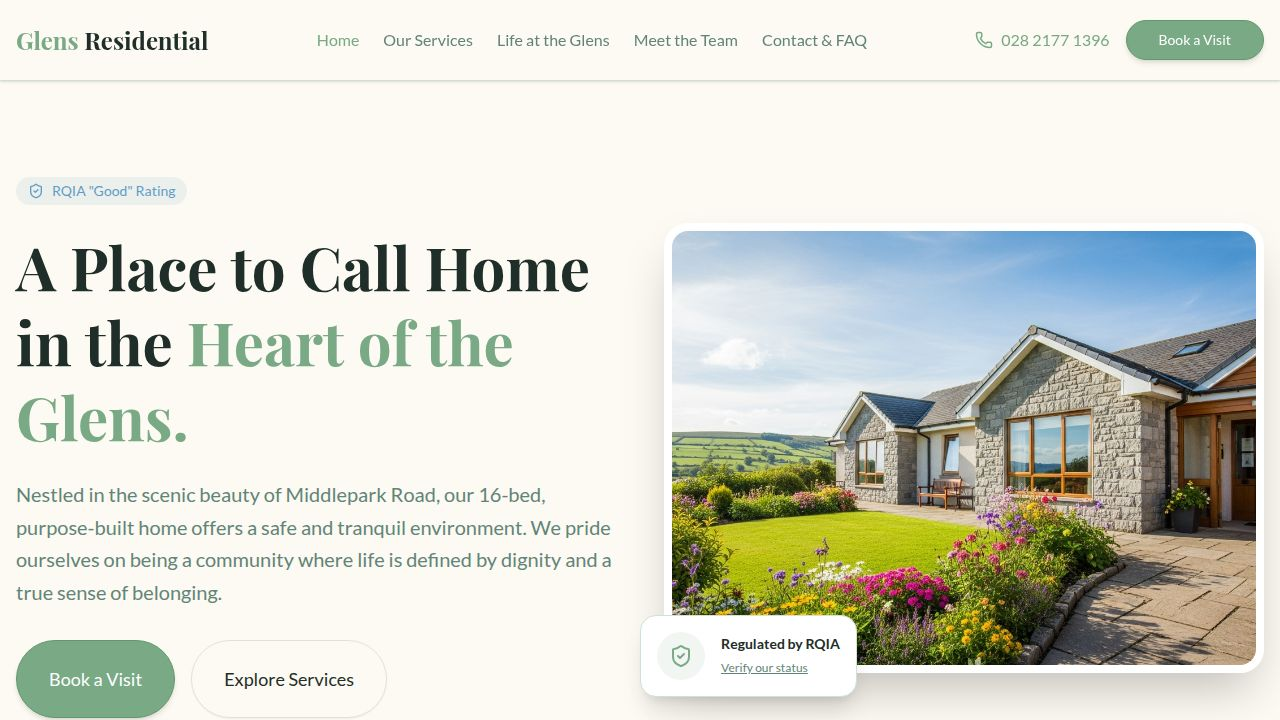
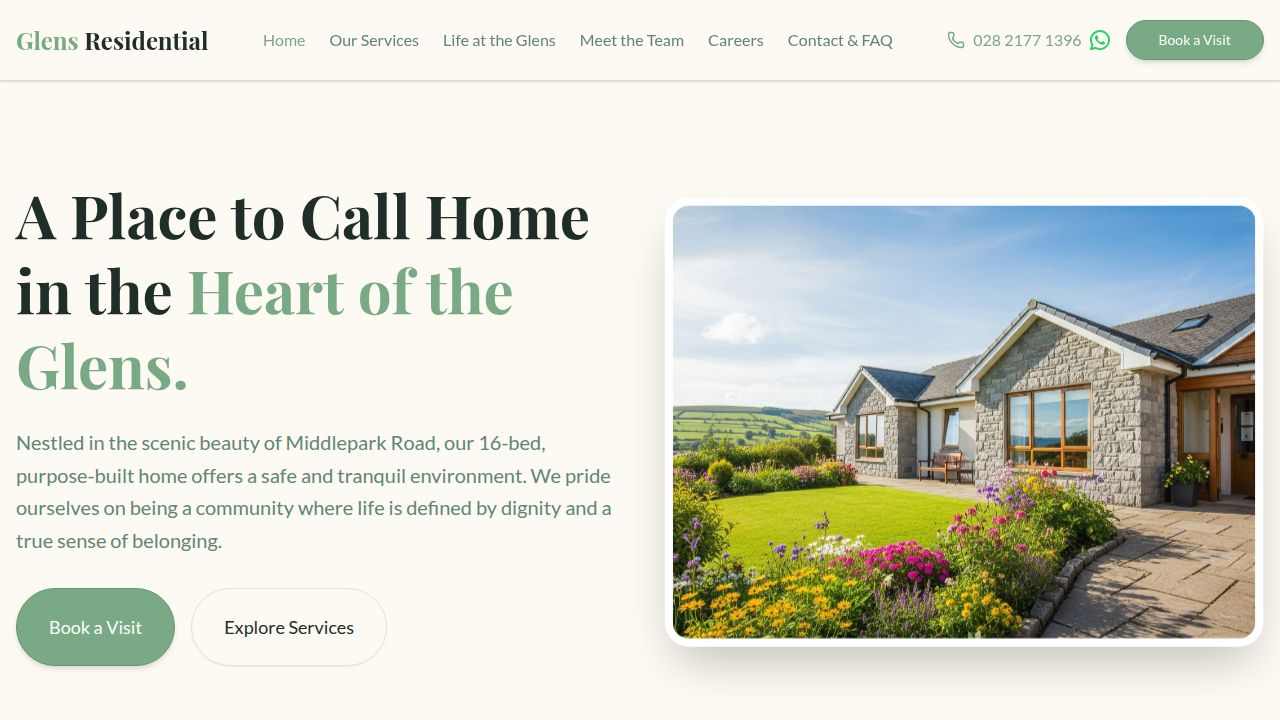
Add ability to switch between website themes for admin users
Implement theme switching functionality for admin users, allowing selection between a default green and a new navy blue theme. This involves adding a theme setting to the API, a `ThemeApplier` component in `App.tsx` to manage the CSS class on the document element, and a `ThemePicker` component in `StaffDashboard.tsx` for user interaction.

Replit-Commit-Author: Agent
Replit-Commit-Session-Id: fa719f5c-c439-4e3d-a5d6-1114afe4a434
Replit-Commit-Checkpoint-Type: full_checkpoint
Replit-Commit-Event-Id: 511df536-0ed7-492a-a2f8-435f60b4a0d1
Replit-Commit-Screenshot-Url: https://storage.googleapis.com/screenshot-production-us-central1/3e102883-b9a0-4b54-955f-4a810ec6c903/fa719f5c-c439-4e3d-a5d6-1114afe4a434/lF85WXA
Replit-Helium-Checkpoint-Created: true

diff --git a/artifacts/glens-residential/src/pages/StaffDashboard.tsx b/artifacts/glens-residential/src/pages/StaffDashboard.tsx
@@ -30,7 +30,9 @@ import {
   Instagram,
   Twitter,
   Star,
+  Palette,
 } from "lucide-react";
+import type { ThemeColor } from "@/hooks/useSettings";
 
 const SECTIONS = [
   {
@@ -431,6 +433,78 @@ function SocialLinksEditor() {
   );
 }
 
+const THEMES: { id: ThemeColor; label: string; description: string; primary: string; bg: string; accent: string }[] = [
+  {
+    id: "green",
+    label: "Original Green",
+    description: "Warm sage green — the current website palette",
+    primary: "#6b9e7a",
+    bg: "#f8f5ec",
+    accent: "#5a8bae",
+  },
+  {
+    id: "navy",
+    label: "Navy Blue",
+    description: "Deep navy blue with a gold accent",
+    primary: "#1e3a8a",
+    bg: "#f5f8fc",
+    accent: "#d97706",
+  },
+];
+
+function ThemePicker() {
+  const { settings, save } = useSettings();
+  const { toast } = useToast();
+  const [saving, setSaving] = useState(false);
+
+  const handleSelect = async (theme: ThemeColor) => {
+    if (theme === settings.theme) return;
+    setSaving(true);
+    try {
+      await save({ theme });
+      toast({ title: "Theme updated", description: `Switched to the ${theme === "navy" ? "Navy Blue" : "Original Green"} theme.` });
+    } catch (e) {
+      toast({ title: "Failed to save", description: e instanceof Error ? e.message : "Unknown error", variant: "destructive" });
+    } finally {
+      setSaving(false);
+    }
+  };
+
+  return (
+    <div className="grid sm:grid-cols-2 gap-4">
+      {THEMES.map((t) => {
+        const active = settings.theme === t.id;
+        return (
+          <button
+            key={t.id}
+            onClick={() => handleSelect(t.id)}
+            disabled={saving}
+            className={[
+              "relative text-left rounded-2xl border-2 p-5 transition-all duration-150 focus:outline-none focus-visible:ring-2 focus-visible:ring-ring",
+              active
+                ? "border-primary shadow-md"
+                : "border-border hover:border-muted-foreground/40 hover:shadow-sm",
+            ].join(" ")}
+          >
+            {active && (
+              <span className="absolute top-3 right-3 flex items-center gap-1 text-xs font-semibold text-primary">
+                <CheckCircle size={13} className="fill-primary/20" /> Active
+              </span>
+            )}
+            <div className="flex gap-2 mb-3">
+              <div className="w-8 h-8 rounded-full border border-border/40 shadow-sm" style={{ background: t.bg }} />
+              <div className="w-8 h-8 rounded-full border border-border/40 shadow-sm" style={{ background: t.primary }} />
+              <div className="w-8 h-8 rounded-full border border-border/40 shadow-sm" style={{ background: t.accent }} />
+            </div>
+            <p className="font-semibold text-foreground text-sm">{t.label}</p>
+            <p className="text-xs text-muted-foreground mt-0.5">{t.description}</p>
+          </button>
+        );
+      })}
+    </div>
+  );
+}
+
 function ReviewUrlEditor() {
   const { settings, save } = useSettings();
   const { toast } = useToast();
@@ -571,6 +645,19 @@ export default function StaffDashboard() {
       </section>
 
       <section className="py-10 border-t border-border bg-muted/20">
+        <div className="container mx-auto px-4 max-w-5xl">
+          <div className="flex items-center gap-2 mb-2">
+            <Palette size={20} className="text-primary" />
+            <h2 className="text-xl font-serif font-bold text-foreground">Website Theme</h2>
+          </div>
+          <p className="text-muted-foreground mb-8">
+            Choose the colour palette for the entire website. The change takes effect immediately for all visitors.
+          </p>
+          <ThemePicker />
+        </div>
+      </section>
+
+      <section className="py-10 border-t border-border">
         <div className="container mx-auto px-4 max-w-5xl">
           <div className="flex items-center gap-2 mb-2">
             <Phone size={20} className="text-primary" />

diff --git a/artifacts/glens-residential/src/index.css b/artifacts/glens-residential/src/index.css
@@ -193,6 +193,77 @@
   --shadow-2xl: 0px 2px 0px 0px hsl(0 0% 0% / 0.3);
 }
 
+/* ─── NAVY BLUE THEME ─────────────────────────────────────────────── */
+.theme-navy {
+  --background: 210 30% 98%;
+  --foreground: 221 40% 15%;
+  --border: 210 25% 84%;
+  --card: 0 0% 100%;
+  --card-foreground: 221 40% 18%;
+  --card-border: 210 25% 86%;
+  --sidebar: 221 35% 94%;
+  --sidebar-foreground: 221 40% 18%;
+  --sidebar-border: 210 25% 84%;
+  --sidebar-primary: 221 70% 32%;
+  --sidebar-primary-foreground: 0 0% 100%;
+  --sidebar-accent: 221 35% 88%;
+  --sidebar-accent-foreground: 221 40% 18%;
+  --sidebar-ring: 221 70% 32%;
+  --popover: 0 0% 100%;
+  --popover-foreground: 221 40% 15%;
+  --popover-border: 210 25% 84%;
+  --primary: 221 70% 32%;
+  --primary-foreground: 0 0% 100%;
+  --secondary: 38 85% 50%;
+  --secondary-foreground: 0 0% 100%;
+  --muted: 210 20% 92%;
+  --muted-foreground: 221 20% 45%;
+  --accent: 221 70% 32%;
+  --accent-foreground: 0 0% 100%;
+  --destructive: 0 72% 51%;
+  --destructive-foreground: 0 0% 100%;
+  --input: 210 25% 80%;
+  --ring: 221 70% 32%;
+  --chart-1: 221 70% 32%;
+  --chart-2: 38 85% 50%;
+  --chart-3: 210 30% 85%;
+  --chart-4: 221 40% 45%;
+  --chart-5: 221 40% 15%;
+}
+
+.theme-navy.dark {
+  --background: 221 35% 10%;
+  --foreground: 210 30% 96%;
+  --border: 221 30% 22%;
+  --card: 221 35% 13%;
+  --card-foreground: 210 30% 96%;
+  --card-border: 221 30% 26%;
+  --sidebar: 221 35% 13%;
+  --sidebar-foreground: 210 30% 96%;
+  --sidebar-border: 221 30% 26%;
+  --sidebar-primary: 221 60% 55%;
+  --sidebar-primary-foreground: 0 0% 100%;
+  --sidebar-accent: 221 30% 22%;
+  --sidebar-accent-foreground: 210 30% 96%;
+  --sidebar-ring: 221 60% 55%;
+  --popover: 221 35% 13%;
+  --popover-foreground: 210 30% 96%;
+  --popover-border: 221 30% 26%;
+  --primary: 221 60% 55%;
+  --primary-foreground: 0 0% 100%;
+  --secondary: 38 85% 50%;
+  --secondary-foreground: 0 0% 100%;
+  --muted: 221 30% 22%;
+  --muted-foreground: 210 20% 65%;
+  --accent: 221 60% 55%;
+  --accent-foreground: 0 0% 100%;
+  --destructive: 0 72% 51%;
+  --destructive-foreground: 0 0% 100%;
+  --input: 221 30% 28%;
+  --ring: 221 60% 55%;
+}
+/* ────────────────────────────────────────────────────────────────── */
+
 @layer base {
   * {
     @apply border-border;

diff --git a/artifacts/glens-residential/src/App.tsx b/artifacts/glens-residential/src/App.tsx
@@ -4,6 +4,7 @@ import { Toaster } from "@/components/ui/toaster";
 import { TooltipProvider } from "@/components/ui/tooltip";
 import { useEffect } from "react";
 import NotFound from "@/pages/not-found";
+import { useSettings } from "@/hooks/useSettings";
 
 import { Layout } from "@/components/layout/Layout";
 import Home from "@/pages/Home";
@@ -17,6 +18,19 @@ import StaffDashboard from "@/pages/StaffDashboard";
 
 const queryClient = new QueryClient();
 
+function ThemeApplier() {
+  const { settings } = useSettings();
+  useEffect(() => {
+    const el = document.documentElement;
+    if (settings.theme === "navy") {
+      el.classList.add("theme-navy");
+    } else {
+      el.classList.remove("theme-navy");
+    }
+  }, [settings.theme]);
+  return null;
+}
+
 function ScrollToTop() {
   const [location] = useLocation();
   useEffect(() => {
@@ -28,6 +42,7 @@ function ScrollToTop() {
 function Router() {
   return (
     <Layout>
+      <ThemeApplier />
       <ScrollToTop />
       <Switch>
         <Route path="/" component={Home} />

diff --git a/artifacts/glens-residential/src/hooks/useSettings.ts b/artifacts/glens-residential/src/hooks/useSettings.ts
@@ -1,5 +1,7 @@
 import { useState, useEffect } from "react";
 
+export type ThemeColor = "green" | "navy";
+
 export interface SiteSettings {
   phone: string;
   address: string;
@@ -7,6 +9,7 @@ export interface SiteSettings {
   instagram: string;
   twitter: string;
   review_url: string;
+  theme: ThemeColor;
 }
 
 const DEFAULTS: SiteSettings = {
@@ -16,6 +19,7 @@ const DEFAULTS: SiteSettings = {
   instagram: "",
   twitter: "",
   review_url: "",
+  theme: "green",
 };
 
 export function useSettings() {

diff --git a/artifacts/api-server/src/routes/settings.ts b/artifacts/api-server/src/routes/settings.ts
@@ -6,7 +6,7 @@ import { requireAuth } from "../middlewares/requireAuth";
 
 const router: IRouter = Router();
 
-const ALLOWED_KEYS = ["phone", "address", "facebook", "instagram", "twitter", "review_url"] as const;
+const ALLOWED_KEYS = ["phone", "address", "facebook", "instagram", "twitter", "review_url", "theme"] as const;
 
 async function getAllSettings(): Promise<Record<string, string>> {
   const rows = await db.select().from(siteSettingsTable);
@@ -25,6 +25,7 @@ const UpdateSettingsBody = z.object({
   instagram: z.string().optional(),
   twitter: z.string().optional(),
   review_url: z.string().optional(),
+  theme: z.enum(["green", "navy"]).optional(),
 });
 
 router.put("/settings", requireAuth, async (req, res): Promise<void> => {